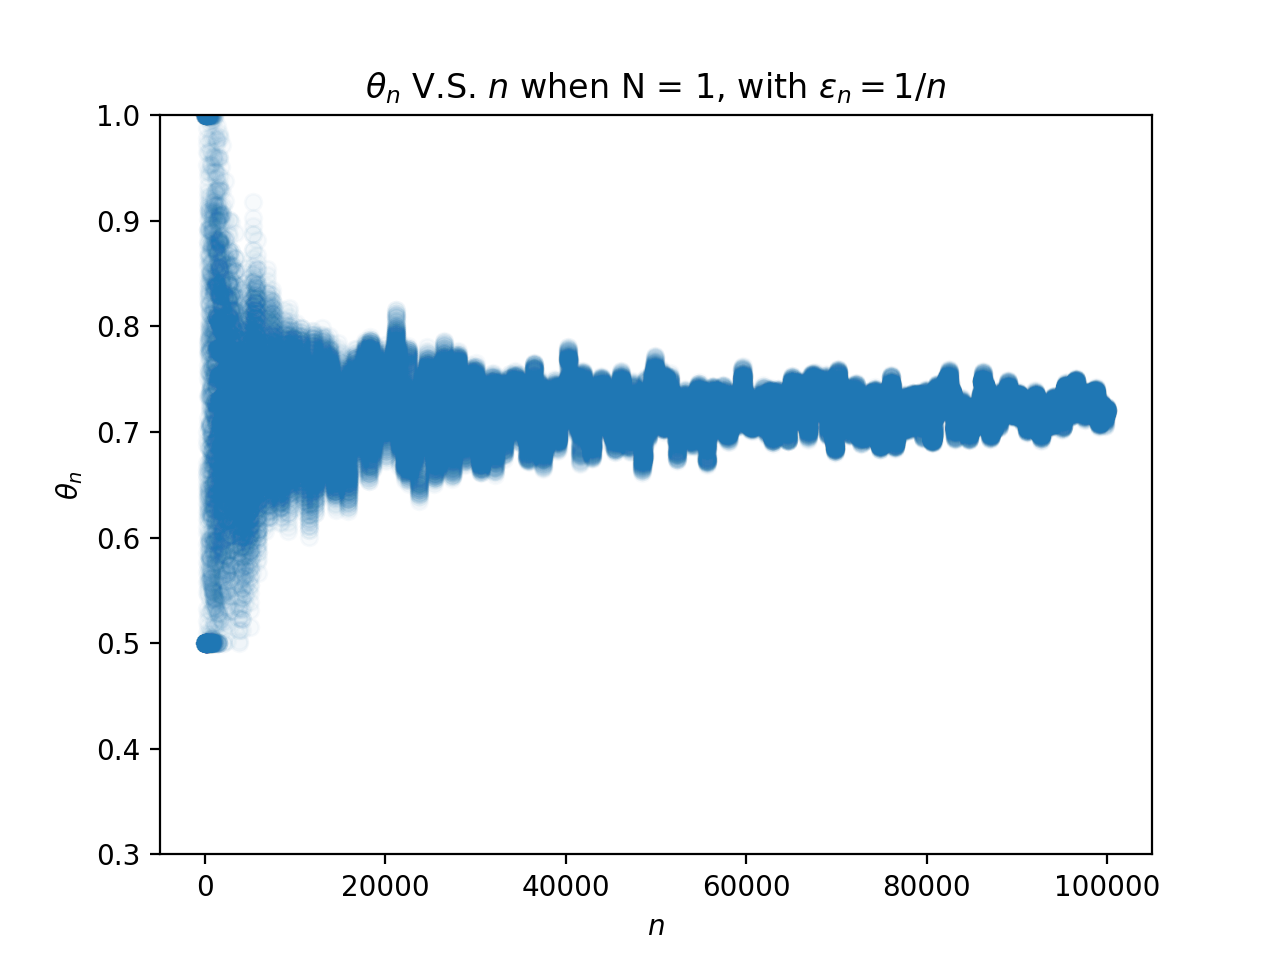
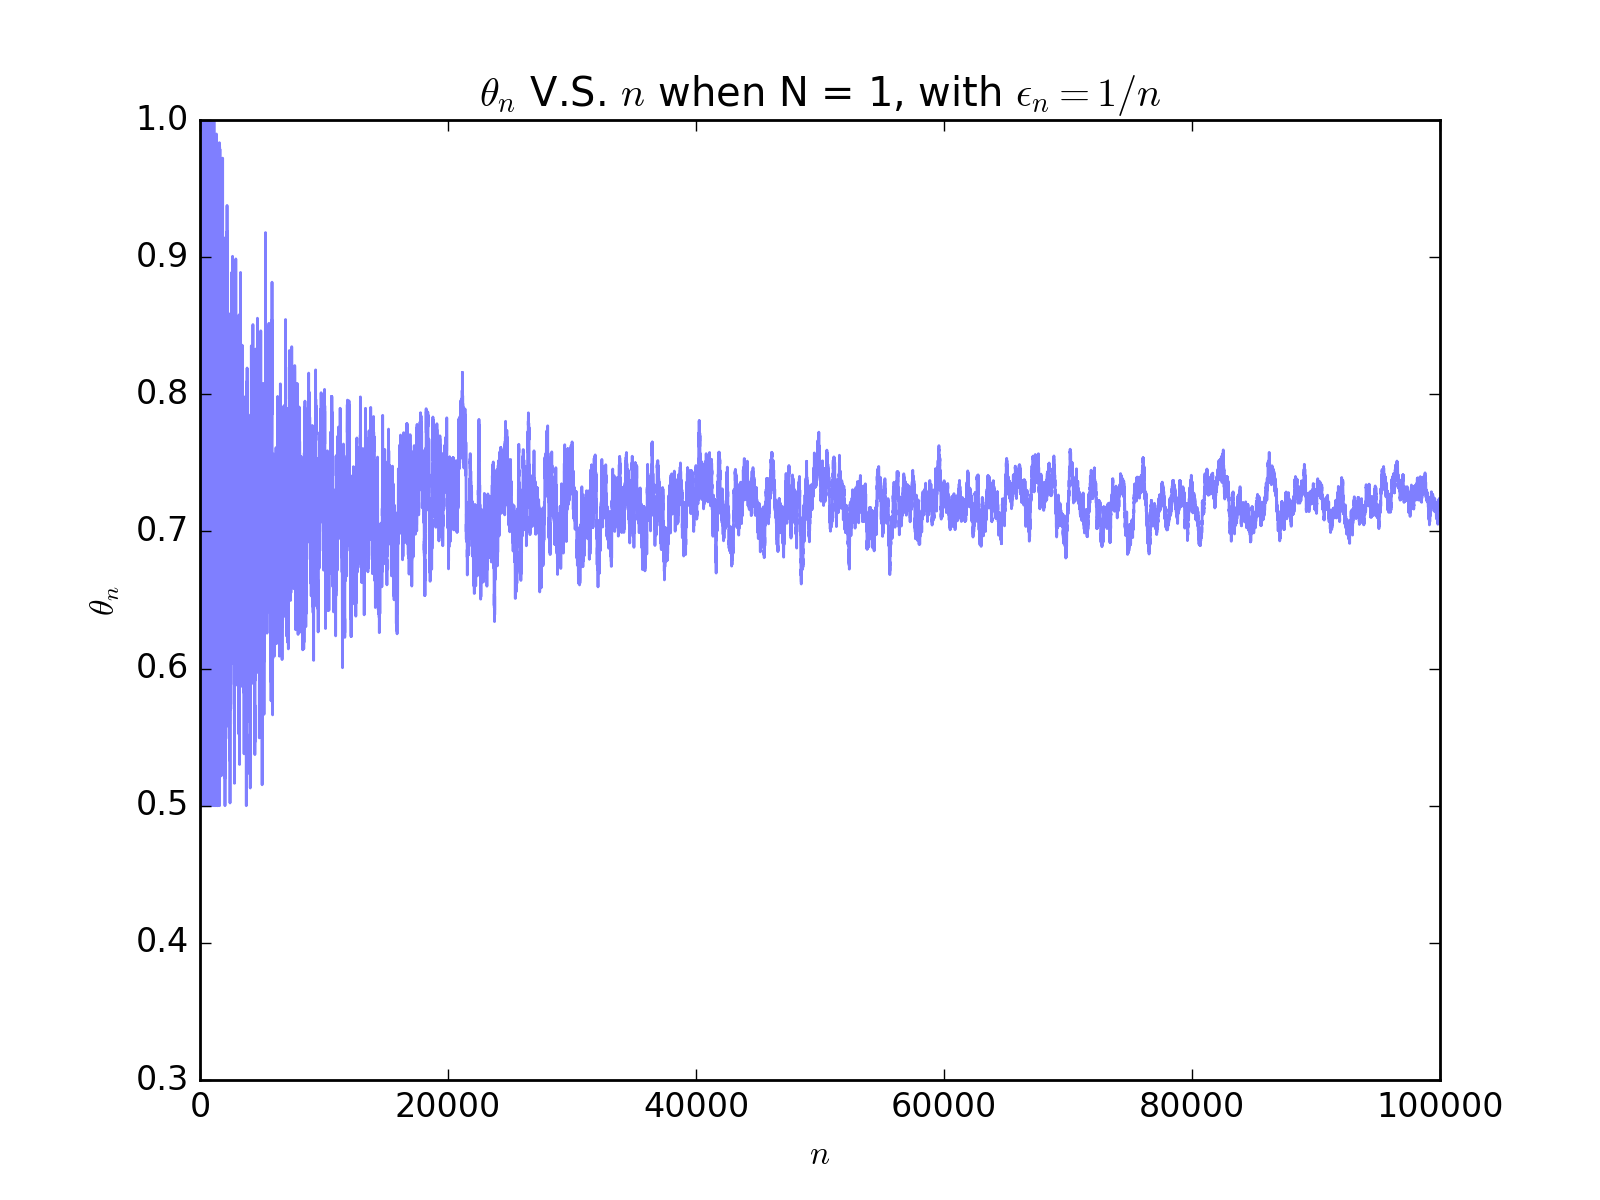
add the chapter 4

diff --git a/chapter4/4_3_b_descreasing_step_size.py b/chapter4/4_3_b_descreasing_step_size.py
@@ -7,25 +7,25 @@ import matplotlib.pyplot as plt
 import numpy as np
 def plot_2d(x,y,N,plot_id):
     #array_=np.asarray(list_)
-    plt.scatter(x,y,alpha = 0.03)
+    plt.plot(x,y,alpha = 0.5)
     plt.title(r'$\theta_n$'+" V.S. " +r'$n$'+' when N = '+str(N)+", with "+r'$\epsilon_n = 1/n $')
     plt.xlabel(r'$n$')
     plt.ylabel(r'$\theta _n$')
     plt.ylim( 0.3, 1.0 )
     plt.savefig("./output"+str(plot_id)+".png",dpi = (200))
-    
+    plt.show()
     plt.close()
 #plt.show()
 
 def plot_2d_heart_rate(x,y,N,plot_id):
     #array_=np.asarray(list_)
-    plt.scatter(x,y,alpha = 0.03)
+    plt.plot(x,y,alpha = 0.5)
     plt.title('Expected Heart Rate'+" V.S. " +r'$n$'+' when N = '+str(N)+", with "+r'$\epsilon_n = 1/n $')
     plt.xlabel(r'$n$')
     plt.ylabel('Expected Heart Rate')
     plt.ylim( 60, 200 )
     plt.savefig("./expected_heart_rate"+str(plot_id)+".png",dpi = (200))
-    
+    plt.show()
     plt.close()
 
 def get_the_random_numbers_used_in_the_simulation(numbers):
@@ -82,7 +82,7 @@ if __name__=="__main__":
     heart_beat_n[0] = 0
     learning_rate = np.ones((TOTAL_NUMBER,))
     for m in range(learning_rate.shape[0]):
-        learning_rate[m] =float(1.0/(m+1))
+        learning_rate[m] =float(1./(m+1))
     N = [1,10,20]
     target_heart_beat = 120
     plot_id = 100
